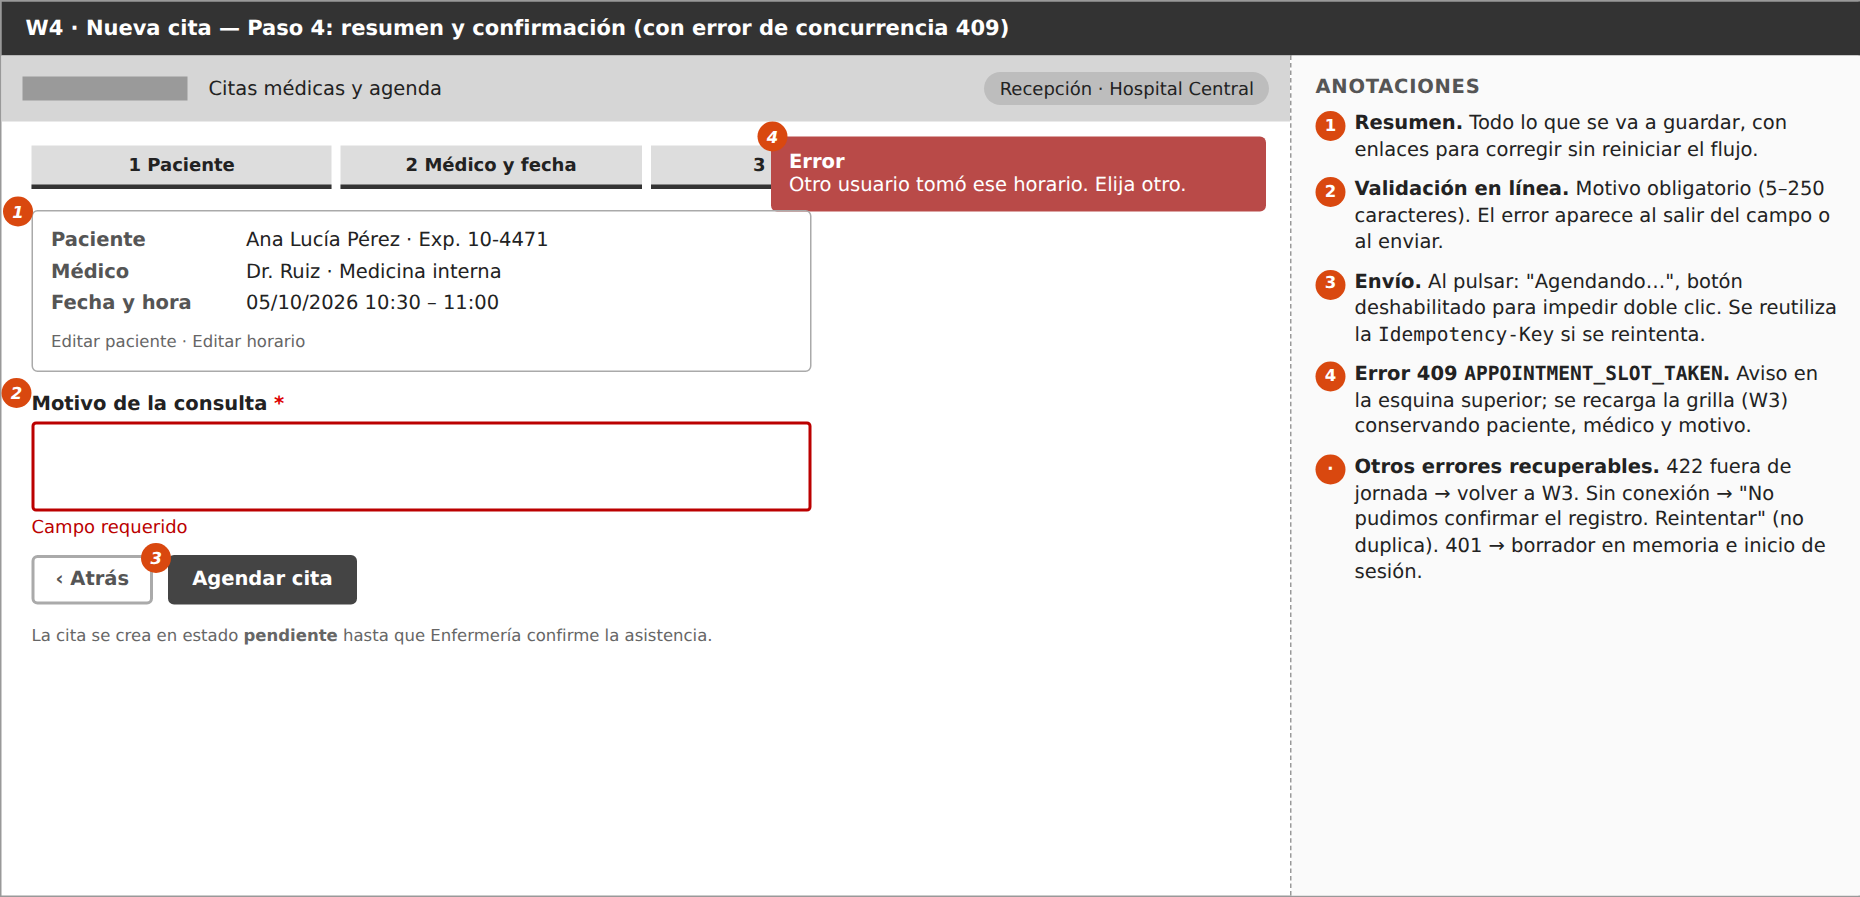
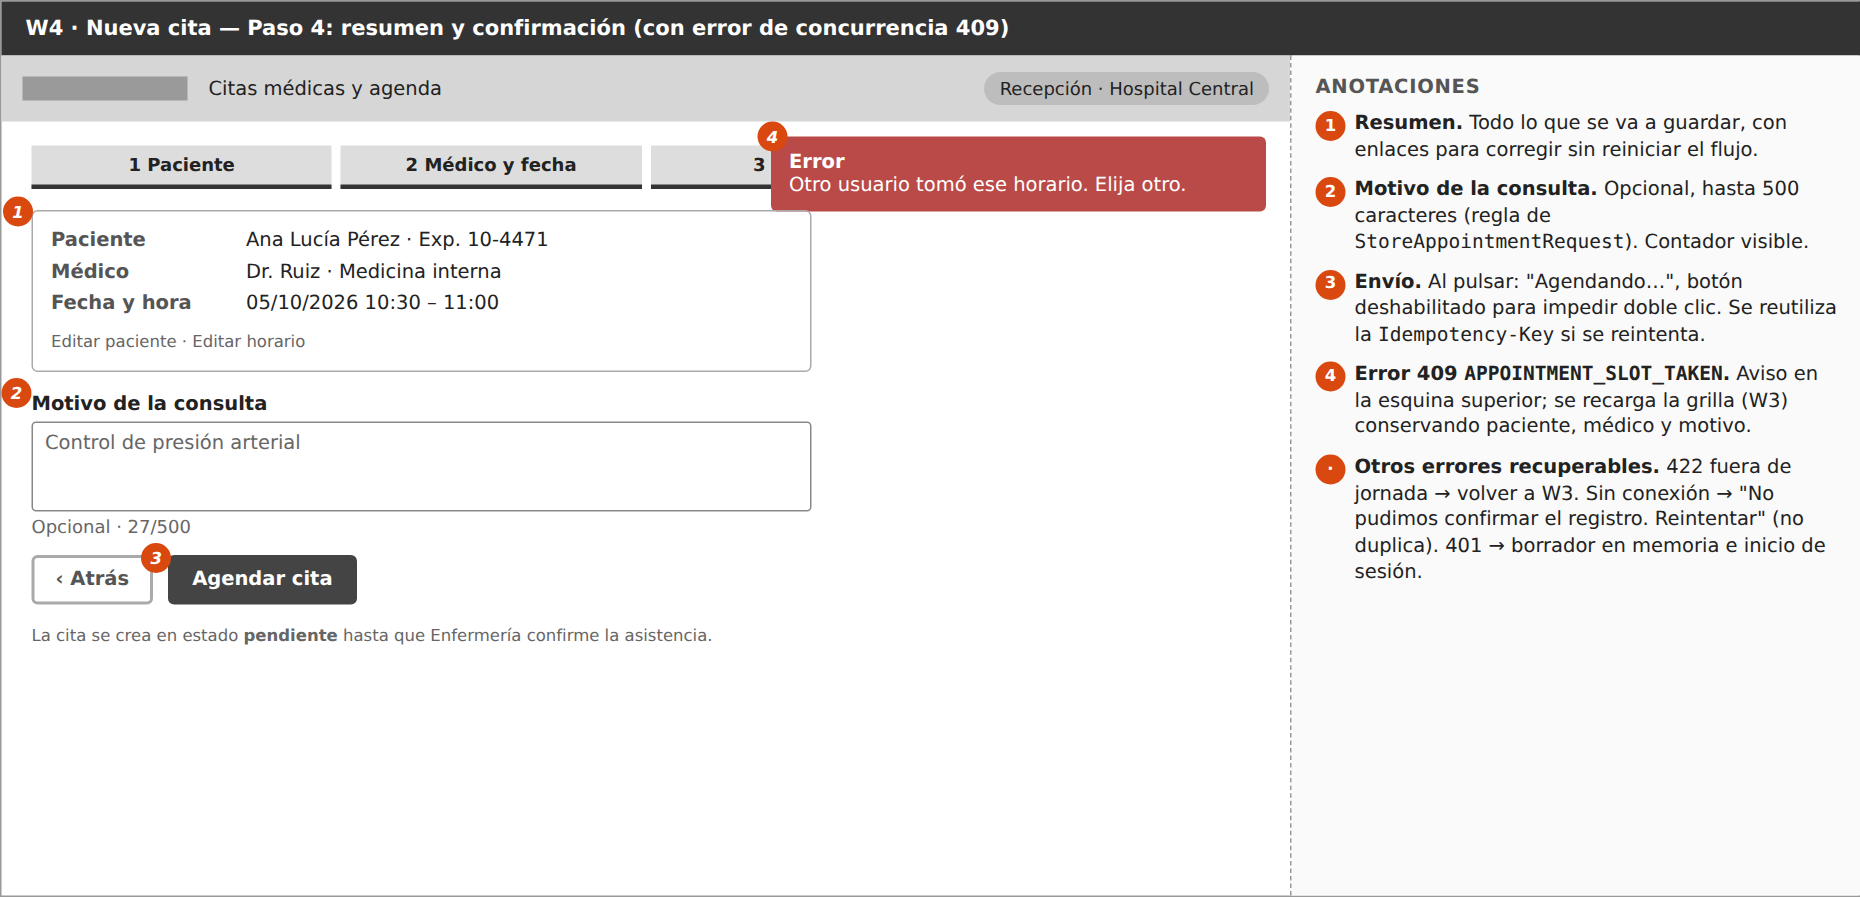
docs(week-08): align field rules with the backend form requests
Claude-Session: https://claude.ai/code/session_014RXxsV1XqAAnUUTQ3spLue

Changed region(s): [[0.7172, 0.1873, 0.9978, 0.2809], [0.0, 0.5619, 0.4366, 0.5931], [0.0, 0.4682, 0.4366, 0.4994]]

diff --git a/docs/semana-08-ux/wireframes/wireframes.html b/docs/semana-08-ux/wireframes/wireframes.html
@@ -179,15 +179,15 @@
         <div class="kv"><b>Paciente</b><span>Ana Lucía Pérez · Exp. 10-4471</span><b>Médico</b><span>Dr. Ruiz · Medicina interna</span><b>Fecha y hora</b><span>05/10/2026 10:30 – 11:00</span></div>
         <span class="mini">Editar paciente · Editar horario</span>
       </div>
-      <div class="field rel" style="margin-top:14px" id="w4-reason"><i class="mk">2</i><label>Motivo de la consulta <span class="req">*</span></label>
-        <div class="input err" style="width:520px;height:60px"></div><div class="errtxt">Campo requerido</div></div>
+      <div class="field rel" style="margin-top:14px" id="w4-reason"><i class="mk">2</i><label>Motivo de la consulta</label>
+        <div class="input" style="width:520px;height:60px">Control de presión arterial</div><div class="help">Opcional · 27/500</div></div>
       <div class="row"><span class="btn ghost">‹ Atrás</span><span class="btn primary rel" id="w4-submit"><i class="mk">3</i>Agendar cita</span></div>
       <p class="mini" style="margin-top:14px">La cita se crea en estado <b>pendiente</b> hasta que Enfermería confirme la asistencia.</p>
     </div>
   </div>
   <div class="notes"><h3>Anotaciones</h3><ol>
     <li><b class="n">1</b><span><b>Resumen.</b> Todo lo que se va a guardar, con enlaces para corregir sin reiniciar el flujo.</span></li>
-    <li><b class="n">2</b><span><b>Validación en línea.</b> Motivo obligatorio (5–250 caracteres). El error aparece al salir del campo o al enviar.</span></li>
+    <li><b class="n">2</b><span><b>Motivo de la consulta.</b> Opcional, hasta 500 caracteres (regla de <code>StoreAppointmentRequest</code>). Contador visible.</span></li>
     <li><b class="n">3</b><span><b>Envío.</b> Al pulsar: "Agendando…", botón deshabilitado para impedir doble clic. Se reutiliza la <code>Idempotency-Key</code> si se reintenta.</span></li>
     <li><b class="n">4</b><span><b>Error 409 <code>APPOINTMENT_SLOT_TAKEN</code>.</b> Aviso en la esquina superior; se recarga la grilla (W3) conservando paciente, médico y motivo.</span></li>
     <li><b class="n">·</b><span><b>Otros errores recuperables.</b> 422 fuera de jornada → volver a W3. Sin conexión → "No pudimos confirmar el registro. Reintentar" (no duplica). 401 → borrador en memoria e inicio de sesión.</span></li>
@@ -232,14 +232,14 @@
     <div class="modal-bg"><div class="modal rel" id="w6-modal"><i class="mk">2</i>
       <h2 style="margin-top:0">¿Cancelar la cita?</h2>
       <p>Ana Lucía Pérez · 05/10/2026 10:30 · Dr. Ruiz</p>
-      <div class="field rel" id="w6-reason"><i class="mk">3</i><label>Motivo <span class="req">*</span></label><div class="input" style="height:54px"></div><div class="help">Mínimo 5 caracteres.</div></div>
+      <div class="field rel" id="w6-reason"><i class="mk">3</i><label>Motivo <span class="req">*</span></label><div class="input err" style="height:54px"></div><div class="errtxt">Campo requerido</div></div>
       <div class="row rel" style="justify-content:flex-end" id="w6-buttons"><i class="mk">4</i><span class="btn">Cancelar</span><span class="btn primary">Aceptar</span></div>
     </div></div>
   </div>
   <div class="notes"><h3>Anotaciones</h3><ol>
     <li><b class="n">1</b><span><b>Acciones por rol.</b> Enfermera: solo "Confirmar asistencia" (elige medio de contacto). Recepcionista: confirmar y cancelar. Médico: sin acciones.</span></li>
     <li><b class="n">2</b><span><b>Confirmación de acción destructiva.</b> Diálogo modal con los datos de la cita que se cancela.</span></li>
-    <li><b class="n">3</b><span><b>Validación.</b> Motivo obligatorio (<code>APPOINTMENT_CANCEL_REASON_REQUIRED</code>).</span></li>
+    <li><b class="n">3</b><span><b>Validación.</b> Motivo obligatorio, de 3 a 500 caracteres (<code>CancelAppointmentRequest</code>). Se muestra al enviar vacío.</span></li>
     <li><b class="n">4</b><span><b>Botones del diálogo.</b> "Cancelar" cierra el diálogo; "Aceptar" cancela la cita.</span></li>
     <li><b class="n">·</b><span><b>Error 422 transición inválida.</b> "Esta cita ya fue cancelada o confirmada por otra persona." Se recarga el detalle.</span></li>
     <li><b class="n">·</b><span><b>Protección de datos.</b> El motivo solo se ve en el detalle, para roles con <code>appointments.view</code>.</span></li>

diff --git a/docs/semana-08-ux/reglas-interaccion.md b/docs/semana-08-ux/reglas-interaccion.md
@@ -49,14 +49,28 @@ permiso; ocultar un botón no es un control de seguridad.
 | Fecha pasada | `APPOINTMENT_PAST_DATE` | Elija una fecha a partir de hoy. | El calendario ya lo impide |
 | Fuera de jornada | `DOCTOR_OUTSIDE_WORKING_HOURS` | El médico no atiende en ese horario. | Volver a W3 |
 | Horario tomado | `APPOINTMENT_SLOT_TAKEN` | Otro usuario tomó ese horario. Elija otro. | Grilla recargada |
-| Motivo vacío | — | Campo requerido | Foco en el campo |
-| Motivo de cancelación | `APPOINTMENT_CANCEL_REASON_REQUIRED` | Escriba el motivo de la cancelación (mínimo 5 caracteres). | — |
+| Motivo de cancelación vacío | `APPOINTMENT_CANCEL_REASON_REQUIRED` | Campo requerido | Foco en el campo |
 | Transición inválida | `APPOINTMENT_INVALID_TRANSITION` | Esta cita ya fue cancelada o confirmada por otra persona. | Detalle recargado |
 | Sin conexión | — | No pudimos confirmar el registro. Revise la conexión y reintente. | Reintentar (misma clave) |
 | Sesión expirada | 401 | Su sesión expiró. | Iniciar sesión |
 | Sin permiso | 403 | No tiene permiso para esta acción. | Volver a la agenda |
 
 Los mensajes se eligen por `code`, no por el texto que devuelve el servidor.
+Hoy el backend responde 422 con solo `message`; los códigos son los del
+contrato de la semana 5 y el `ErrorMapper` propuesto en la semana 7.
+
+## 4.1 Validaciones de formato
+
+Tomadas de los `FormRequest` del backend, para que la interfaz no pida más ni
+menos que el servidor.
+
+| Campo | Regla | Origen |
+|---|---|---|
+| Paciente, médico, especialidad | Obligatorios | `StoreAppointmentRequest` |
+| Fecha y hora | Obligatoria, futura | `StoreAppointmentRequest`, RN-01 |
+| Duración | 5 a 480 minutos (la interfaz ofrece 15, 30, 45 y 60) | `StoreAppointmentRequest` |
+| Motivo de la consulta | Opcional, máximo 500 caracteres | `StoreAppointmentRequest` |
+| Motivo de cancelación | Obligatorio, 3 a 500 caracteres | `CancelAppointmentRequest`, RN-12 |
 
 ## 5. Reglas de interacción
 
@@ -81,7 +95,7 @@ Los mensajes se eligen por `code`, no por el texto que devuelve el servidor.
 | W2, médico | "Filtrado por especialidad" |
 | W3, ícono ⓘ | "¿Por qué no veo un horario? Está fuera de la jornada del médico u ocupado por otra cita." |
 | W4, pie | "La cita se crea en estado pendiente hasta que Enfermería confirme la asistencia." |
-| W6, motivo | "Mínimo 5 caracteres." |
+| W4, motivo de consulta | "Opcional" + contador de caracteres (máximo 500) |
 
 ## 7. Protección de datos
 

diff --git a/docs/semana-08-ux/DECLARACION_IA.md b/docs/semana-08-ux/DECLARACION_IA.md
@@ -57,9 +57,11 @@ corresponden al estudiante.
 | Una sintaxis `backward` dentro de un `if` hacía fallar el user flow de Recepción en PlantUML. | Se reescribió con bloques `repeat`; `-checkonly` termina con código 0. |
 | Los marcadores numerados tapaban la primera letra de las etiquetas en los wireframes. | Se desplazaron fuera del elemento y se regeneraron las capturas. |
 
+| La primera versión exigía el motivo de la consulta (5–250 caracteres) y pedía 5–250 para el motivo de cancelación, reglas que el backend no tiene. | Se alinearon con los `FormRequest`: motivo de consulta opcional (máx. 500) y motivo de cancelación de 3 a 500 caracteres. |
+
 ## Validación humana
 
-El estudiante verificó que cada acción mostrada corresponda a un endpoint existente, que los roles coincidan con la matriz de permisos, que los mensajes usen los códigos del contrato de API y que los diagramas se validen con `-checkonly` (código de salida `0`). Revisó visualmente cada wireframe.
+El estudiante verificó que cada acción mostrada corresponda a un endpoint existente, que los roles coincidan con la matriz de permisos, que los mensajes usen los códigos del contrato de API, que las validaciones coincidan con `StoreAppointmentRequest` y `CancelAppointmentRequest` y que los diagramas se validen con `-checkonly` (código de salida `0`). Revisó visualmente cada wireframe.
 
 ## Responsabilidad académica
 

diff --git a/docs/semana-08-ux/GUIA_DEFENSA_ORAL.md b/docs/semana-08-ux/GUIA_DEFENSA_ORAL.md
@@ -23,7 +23,9 @@ Si un rol viera acciones que no puede ejecutar, el backend las rechazaría con
 
 Cada paso corresponde a una validación del backend: paciente (ASII-03),
 médico y especialidad (`DOCTOR_SPECIALTY_MISMATCH`), horario
-(`DOCTOR_OUTSIDE_WORKING_HOURS`, `APPOINTMENT_SLOT_TAKEN`) y motivo. Separarlos
+(`DOCTOR_OUTSIDE_WORKING_HOURS`, `APPOINTMENT_SLOT_TAKEN`) y revisión final.
+El motivo de la consulta es opcional porque así lo define
+`StoreAppointmentRequest`; la interfaz no exige más que el servidor. Separarlos
 permite prevenir el error en el paso donde ocurre en lugar de mostrarlo todo al
 final.
 
